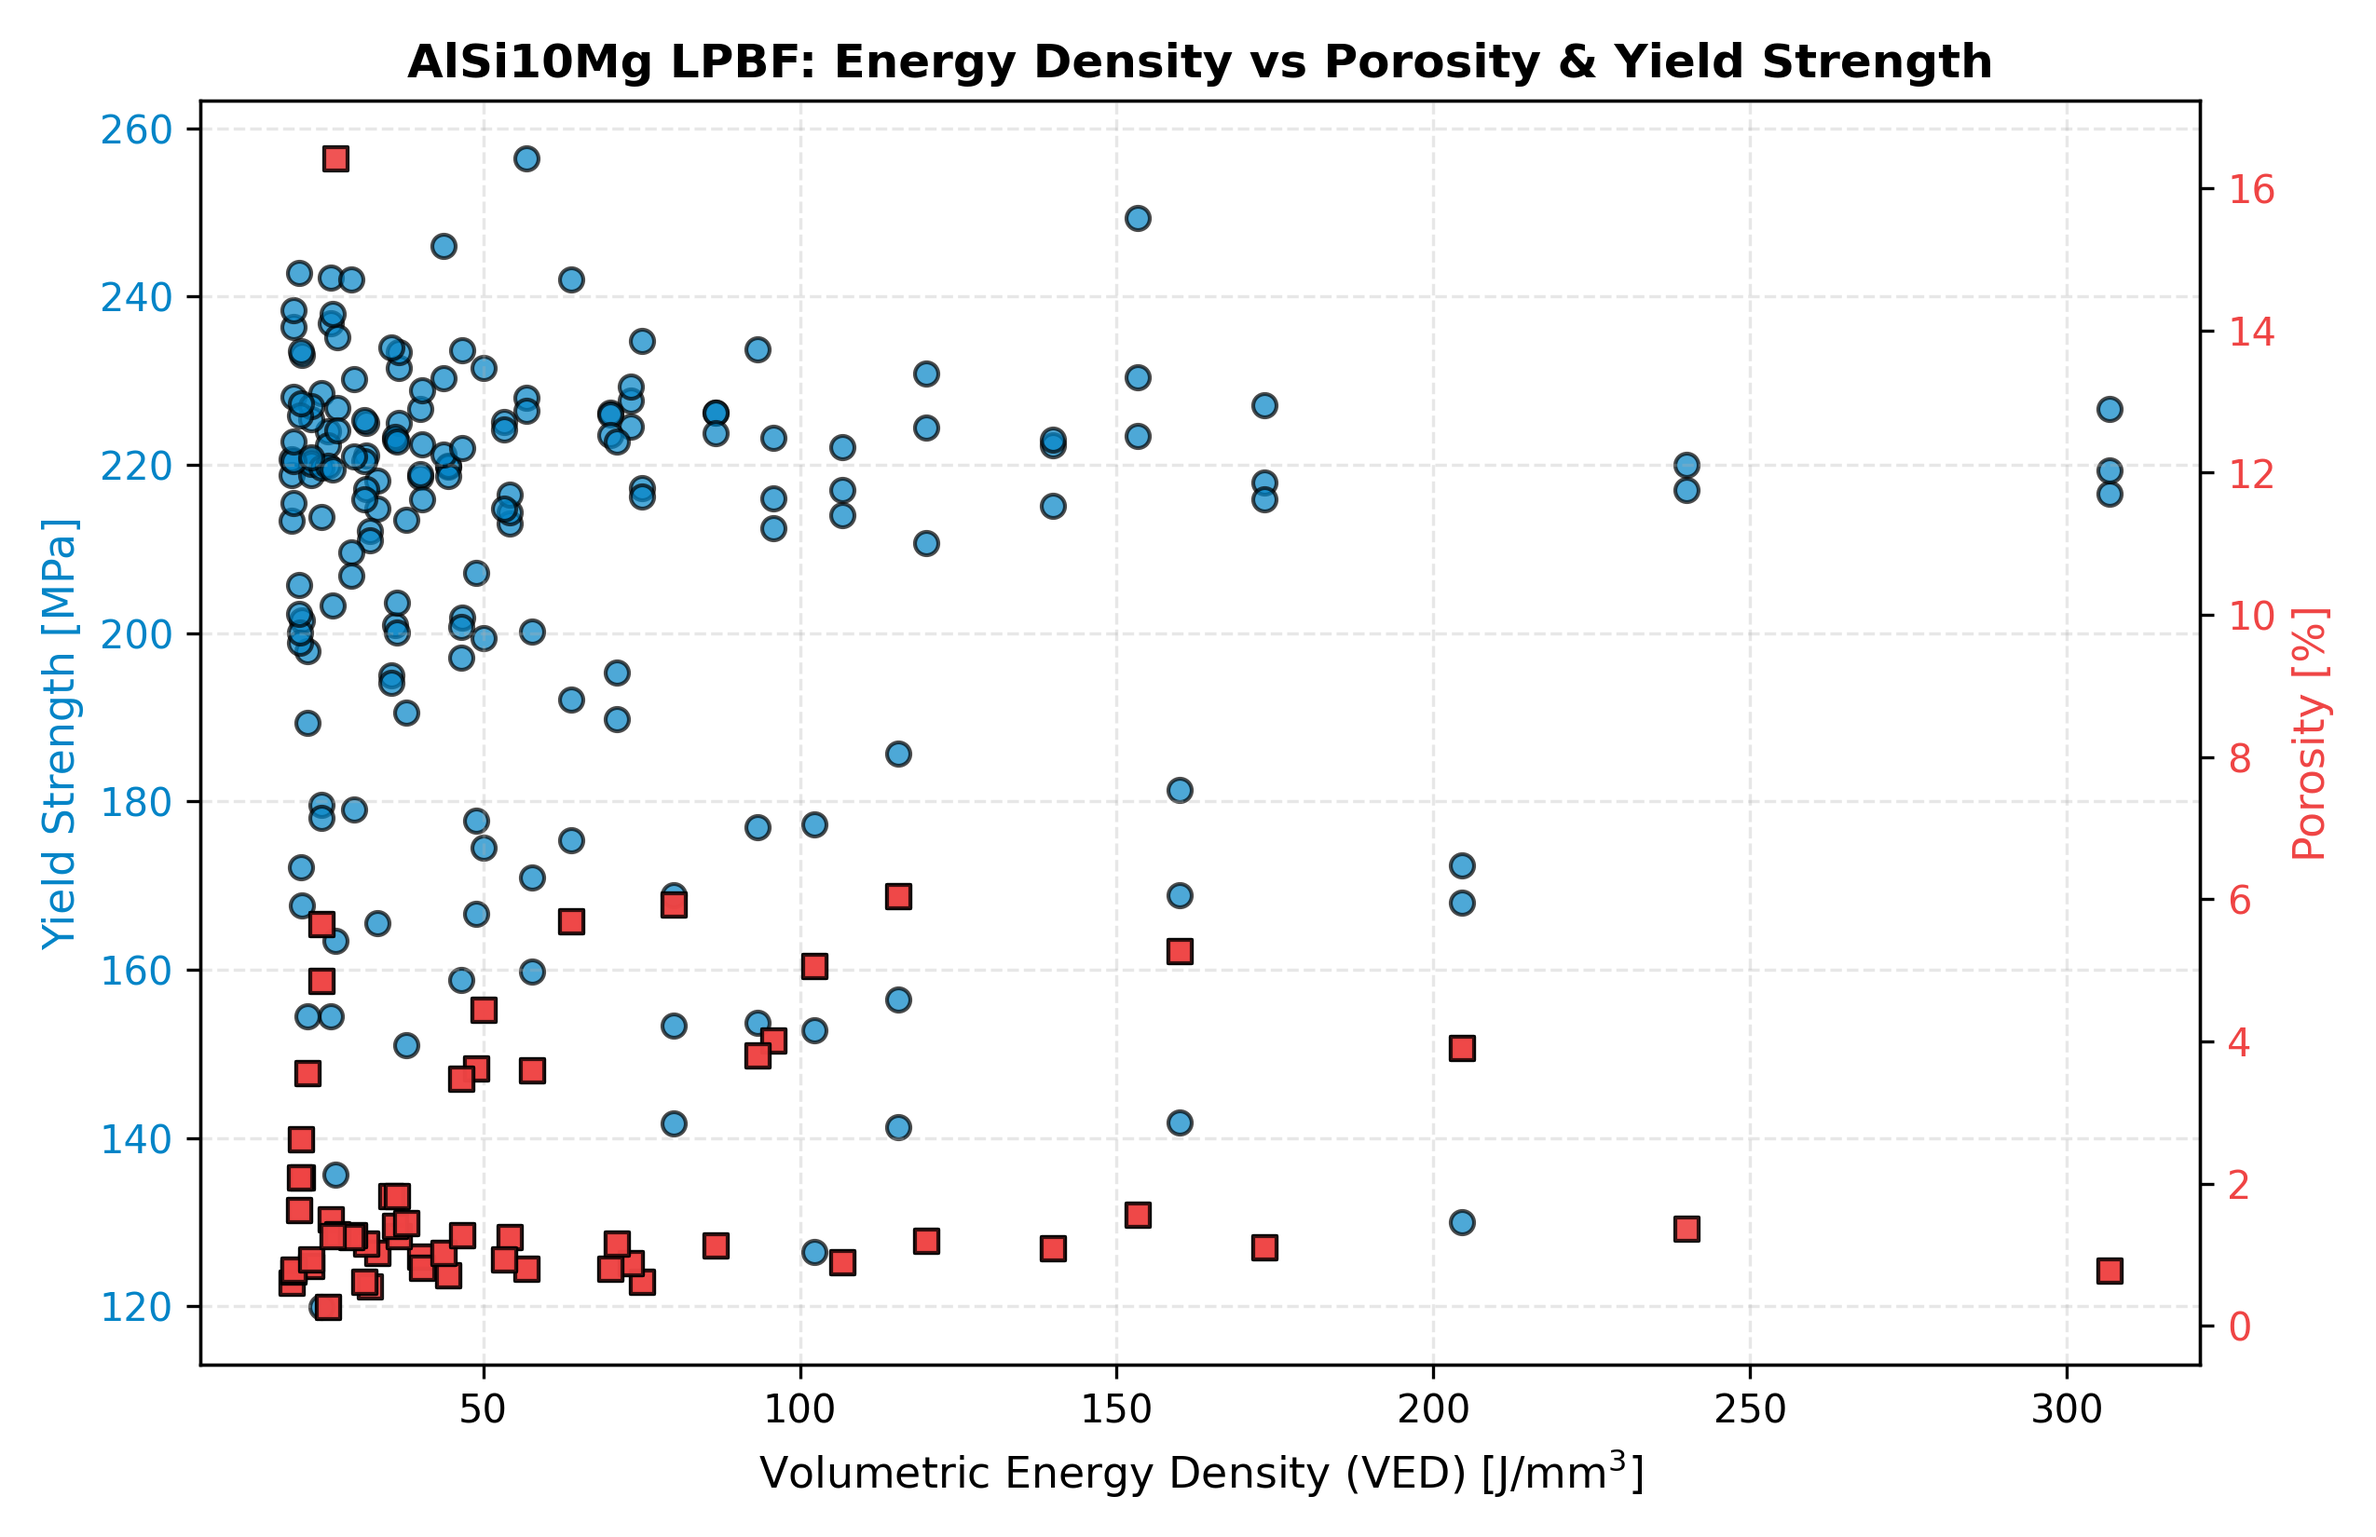
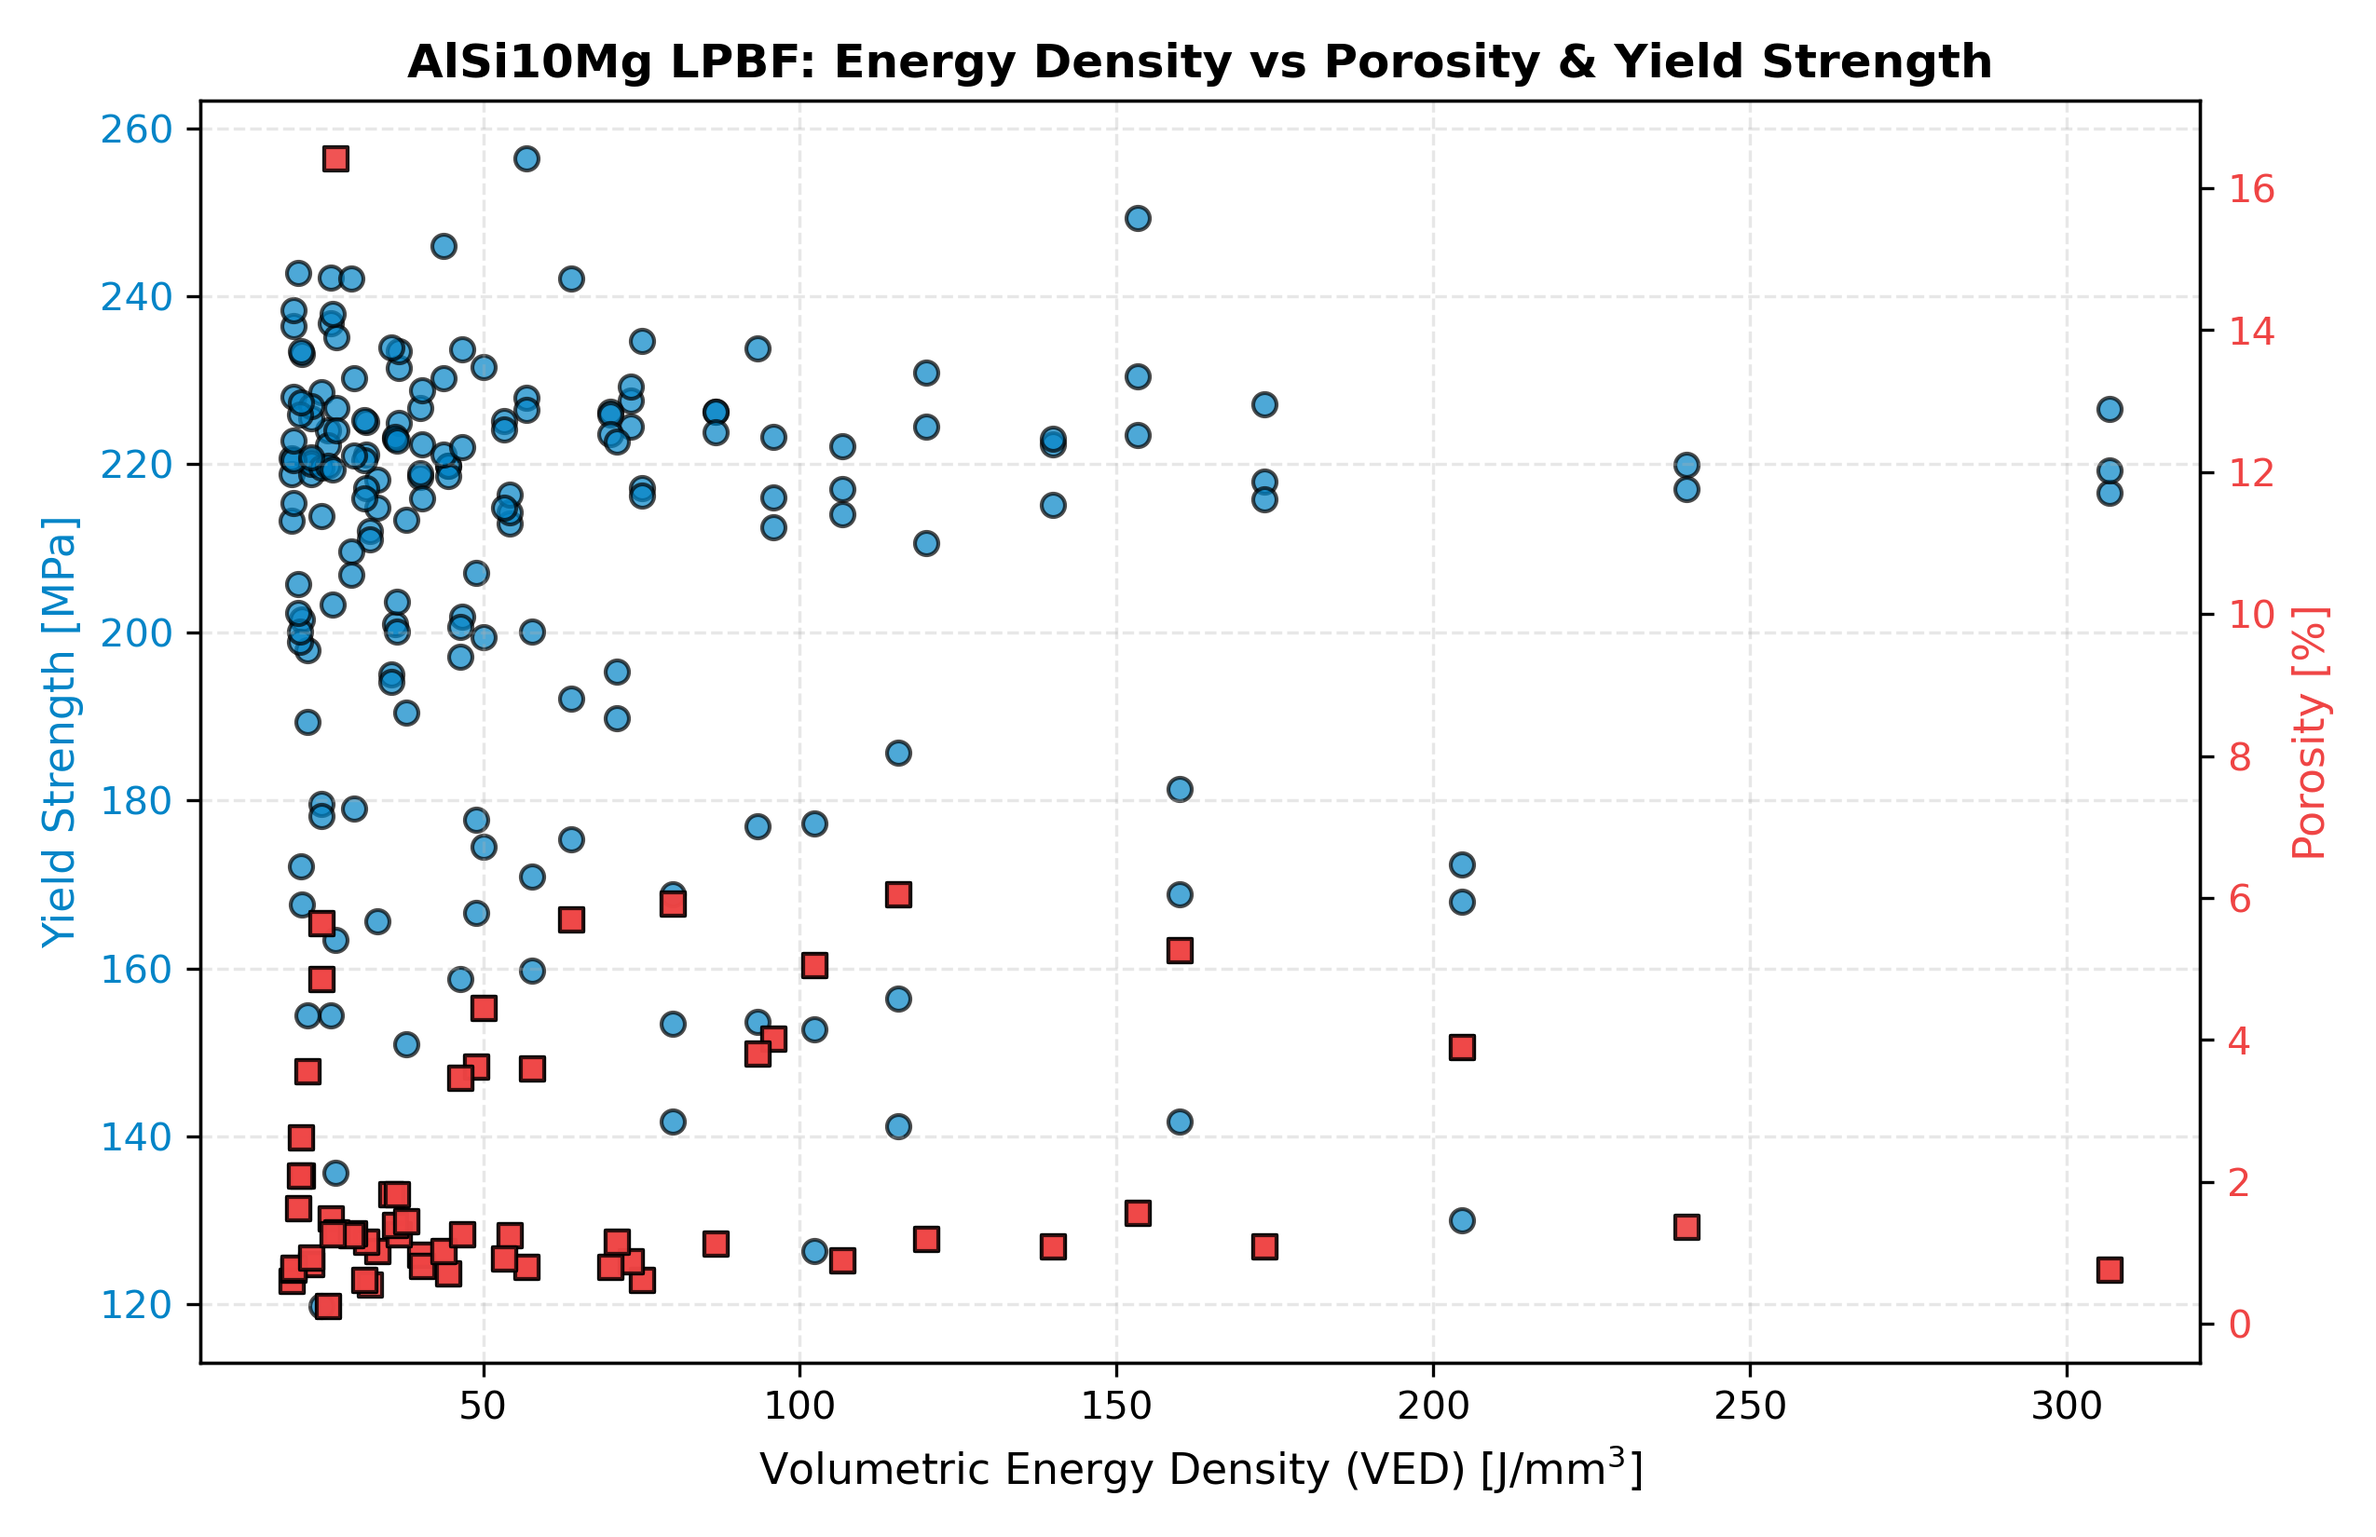
Use neutral labels for split comparison, save run log, add requirements

diff --git a/main.py b/main.py
@@ -30,7 +30,7 @@ def run_full_pipeline():
     results = run_leakage_audit_experiment(df, n_splits=5)
 
     print("\nModel comparison (naive random split vs GroupKFold):")
-    print(f"{'Model':<20} | {'Naive R2 (leakage)':<20} | {'GroupKFold R2 (honest)':<22} | {'Physics R2':<12}")
+    print(f"{'Model':<20} | {'Random split R2':<20} | {'GroupKFold R2':<22} | {'Physics R2':<12}")
     print("-" * 80)
 
     for m in ["RandomForest", "GradientBoosting", "RidgeRegression"]:
@@ -45,9 +45,9 @@ def run_full_pipeline():
     mean_group, ci_low_group, ci_up_group = compute_r2_bootstrap_ci(group_rf["y_trues"], group_rf["y_preds"], n_bootstraps=1000)
 
     print("\nBootstrap 95% CI for Random Forest R2:")
-    print(f"  naive random split (with leakage): {mean_naive:.3f}  [95% CI: {ci_low_naive:.3f}, {ci_up_naive:.3f}]")
-    print(f"  GroupKFold split (leakage-free):    {mean_group:.3f}  [95% CI: {ci_low_group:.3f}, {ci_up_group:.3f}]")
-    print(f"  inflation: +{(mean_naive - mean_group):.3f} R2 points ({(mean_naive/mean_group - 1)*100:.1f}% artificial boost)")
+    print(f"  random split:     {mean_naive:.3f}  [95% CI: {ci_low_naive:.3f}, {ci_up_naive:.3f}]")
+    print(f"  GroupKFold split:  {mean_group:.3f}  [95% CI: {ci_low_group:.3f}, {ci_up_group:.3f}]")
+    print(f"  difference (random - grouped): {(mean_naive - mean_group):+.3f} R2")
 
     figures_dir = os.path.join(PROJECT_DIR, "outputs", "figures")
     os.makedirs(figures_dir, exist_ok=True)

diff --git a/visualizer/prediction_plots.py b/visualizer/prediction_plots.py
@@ -31,7 +31,7 @@ def plot_leakage_parity_comparison(
     
     axes[0].set_xlabel("Measured Yield Strength [MPa]", fontsize=11)
     axes[0].set_ylabel("Predicted Yield Strength [MPa]", fontsize=11)
-    axes[0].set_title(f"(a) Naive Random Split (DATA LEAKAGE)\n$R^2 = {r2_naive:.3f}$, $\\mathrm{{RMSE}} = {rmse_naive:.1f}$ MPa", fontsize=11, fontweight="bold", color="#b91c1c")
+    axes[0].set_title(f"(a) Random 5-fold split\n$R^2 = {r2_naive:.3f}$, $\\mathrm{{RMSE}} = {rmse_naive:.1f}$ MPa", fontsize=11, fontweight="bold", color="#111827")
     axes[0].set_xlim(min_val, max_val)
     axes[0].set_ylim(min_val, max_val)
     axes[0].legend(loc="upper left")
@@ -48,7 +48,7 @@ def plot_leakage_parity_comparison(
     
     axes[1].set_xlabel("Measured Yield Strength [MPa]", fontsize=11)
     axes[1].set_ylabel("Predicted Yield Strength [MPa]", fontsize=11)
-    axes[1].set_title(f"(b) GroupKFold (HONEST GENERALIZATION)\n$R^2 = {r2_group:.3f}$, $\\mathrm{{RMSE}} = {rmse_group:.1f}$ MPa", fontsize=11, fontweight="bold", color="#0369a1")
+    axes[1].set_title(f"(b) GroupKFold by parameter set\n$R^2 = {r2_group:.3f}$, $\\mathrm{{RMSE}} = {rmse_group:.1f}$ MPa", fontsize=11, fontweight="bold", color="#111827")
     axes[1].set_xlim(min_val, max_val)
     axes[1].set_ylim(min_val, max_val)
     axes[1].legend(loc="upper left")

diff --git a/tests/test_leakage_audit.py b/tests/test_leakage_audit.py
@@ -37,7 +37,7 @@ def test_physics_models():
 
 
 def test_leakage_audit_benchmark():
-    """Verifies that naive random split produces an inflated R2 compared to GroupKFold."""
+    """Verifies that both split strategies run and return valid R2 scores."""
     df = _build_synthetic_calibrated_alsi10mg_dataset(n_param_sets=25, repeats=3)
     results = run_leakage_audit_experiment(df, n_splits=5)
     
@@ -46,8 +46,8 @@ def test_leakage_audit_benchmark():
     
     assert "RandomForest" in results["naive_random"]
     assert "physics_baseline" in results
-    # The naive random split with repeat leakage should achieve equal or higher R2 than strict GroupKFold
-    assert r2_naive >= r2_group - 0.05
+    assert -1.0 <= r2_naive <= 1.0
+    assert -1.0 <= r2_group <= 1.0
 
 
 def test_bootstrap_ci():

diff --git a/README.md b/README.md
@@ -20,14 +20,18 @@ AlSi10Mg LPBF processing-structure-property data from Zenodo: https://zenodo.org
 
 ## Results
 
-Source: the saved figure `outputs/figures/data_leakage_parity_comparison.png` (titles of the two panels, Random Forest). The repository has no saved log or table, so no other numbers are quoted.
+Source: `outputs/run_log.txt` (output of `python main.py` on the Zenodo dataset: 177 specimens, 60 parameter sets, 5 folds). Values are R2 / RMSE in MPa for yield strength.
 
-| Split | R2 | RMSE (MPa) |
+| Model | Random 5-fold split | GroupKFold by parameter set |
 |---|---|---|
-| Naive random split | 0.324 | 22.3 |
-| GroupKFold by parameter set | 0.415 | 20.8 |
+| Random Forest | 0.324 / 22.4 | 0.414 / 20.8 |
+| Gradient Boosting | 0.356 / 21.8 | 0.485 / 19.5 |
+| Ridge regression | 0.373 / 21.5 | 0.317 / 22.5 |
+| Physics baseline | 0.391 / 21.2 | |
 
-In this saved run the grouped split gives a higher R2 than the random split. The figure shows only Random Forest; Gradient Boosting, Ridge, the physics baseline and the bootstrap intervals are printed by `main.py` but not saved. `outputs/figures/alsi10mg_ved_vs_porosity_and_strength.png` plots yield strength and porosity against volumetric energy density.
+Bootstrap 95% CI for Random Forest R2: random split 0.318 [0.121, 0.487], GroupKFold 0.409 [0.242, 0.542].
+
+On this dataset the grouped split does not give lower scores than the random split for the tree models; the confidence intervals overlap, so the difference between split strategies is not significant at this sample size. The physics baseline is competitive with the ML models. `outputs/figures/data_leakage_parity_comparison.png` shows the Random Forest parity plots for both splits, and `outputs/figures/alsi10mg_ved_vs_porosity_and_strength.png` plots yield strength and porosity against volumetric energy density.
 
 ## Repository structure
 
@@ -42,10 +46,10 @@ outputs/figures/        saved figures
 
 ## How to run
 
-No requirements file is included. From the imports: numpy, pandas, scipy, scikit-learn, matplotlib, openpyxl (for `read_excel`) and pytest.
+Dependencies are listed in `requirements.txt`.
 
 ```
-pip install numpy pandas scipy scikit-learn matplotlib openpyxl pytest
+pip install -r requirements.txt
 python -m pytest tests
 python main.py
 ```
@@ -57,6 +61,6 @@ Download the Zenodo files `AlSi10Mg PSP feature table.xlsx` and `[FR] Mechanical
 - Only 60 parameter sets; per-set scores are sensitive to which sets land in each fold.
 - A single random seed and one grouped split; no repeated cross-validation.
 - The tests use the synthetic generator, not the real data, and assert only that the random-split R2 is not much lower than the grouped R2.
-- Next steps: save all model scores to a file, print the data source in use, add repeated grouped CV, and add a requirements file.
+- Next steps: save all model scores to a file, print the data source in use, add repeated grouped CV.
 
 Mohnish Bansal, B.Tech Materials Engineering, IIT Delhi
